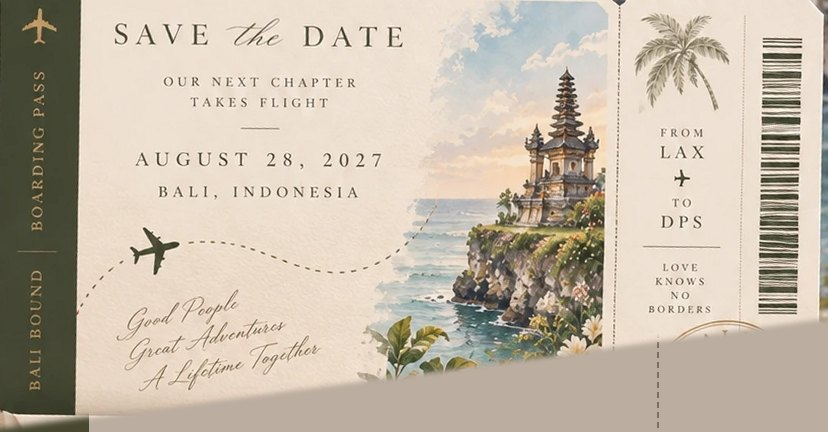
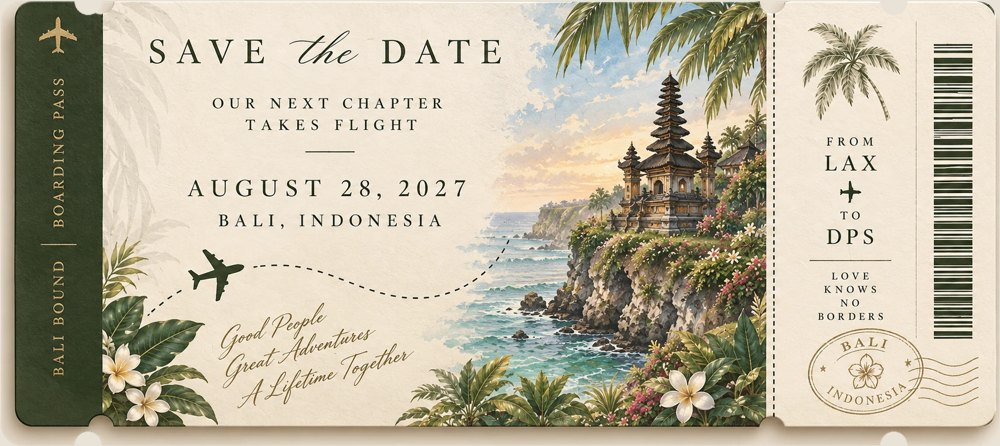
Hero: the painted boarding pass
Replace the pass cut from the earlier reference with the full painted
pass supplied on its own: keyed to its rounded, notched outline with an
inline mask, shown at its true proportions with a drop shadow.

Claude-Session: https://claude.ai/code/session_01GqK2ENqeRUwQmtgcSZFd9X

diff --git a/index.html b/index.html
@@ -192,10 +192,11 @@ button,input,select,textarea{font:inherit;color:inherit}
 
 /* Boarding pass ------------------------------------------------------------ */
 .bpass{
-  z-index:3;width:calc(var(--ew) * 1.04);height:calc(var(--ew) * 1.04 * .522);
-  margin-left:calc(var(--ew) * -.52);margin-top:calc(var(--ew) * 1.04 * -.261);
-  background:url("assets/boarding-pass.jpg") center/100% 100% no-repeat;border-radius:8px;
-  box-shadow:0 12px 26px -16px rgba(36,39,34,.55);will-change:transform,opacity;
+  z-index:3;width:calc(var(--ew) * 1.08);height:calc(var(--ew) * 1.08 * .446);
+  margin-left:calc(var(--ew) * -.54);margin-top:calc(var(--ew) * 1.08 * -.223);
+  background:url("assets/boarding-pass.jpg") center/100% 100% no-repeat;
[1 lines of base64/hex data omitted]
+  filter:drop-shadow(0 10px 14px rgba(36,39,34,.35));will-change:transform,opacity;
 }
 
 /* Passport ------------------------------------------------------------------ */
